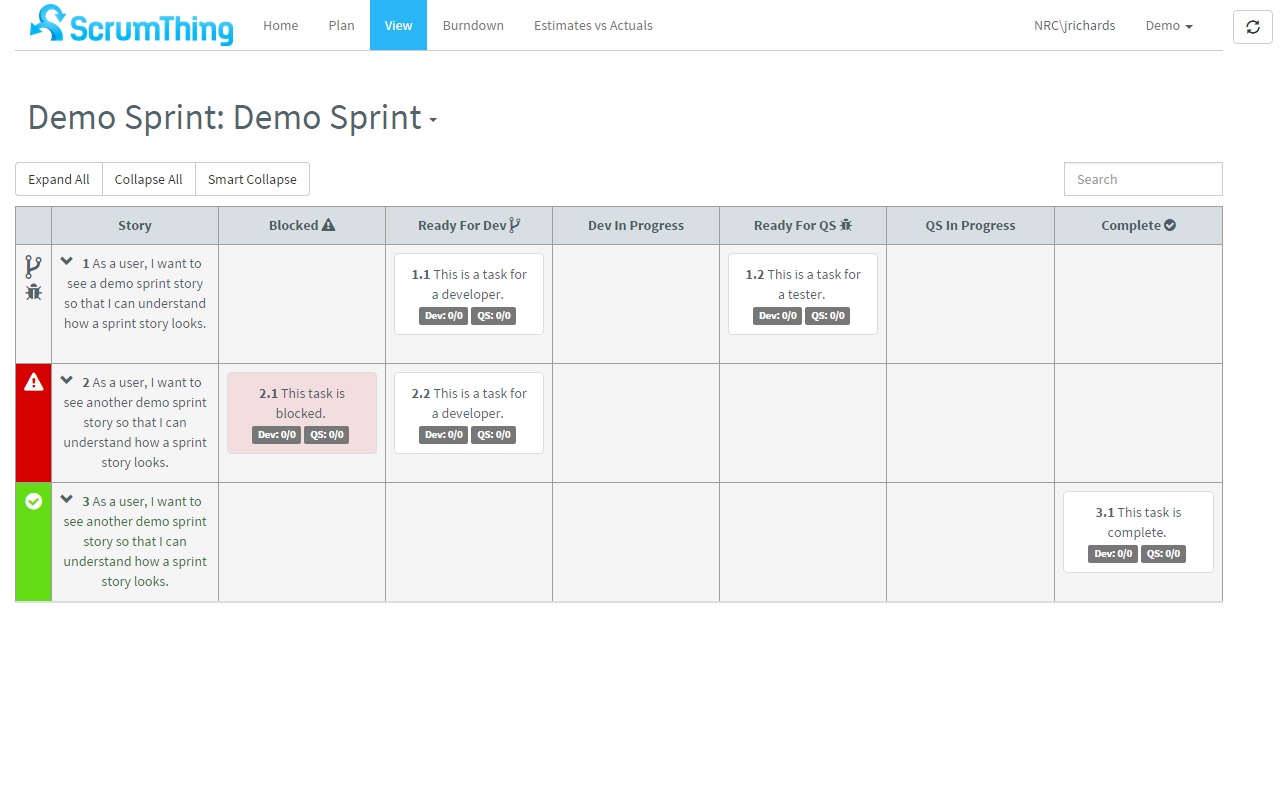
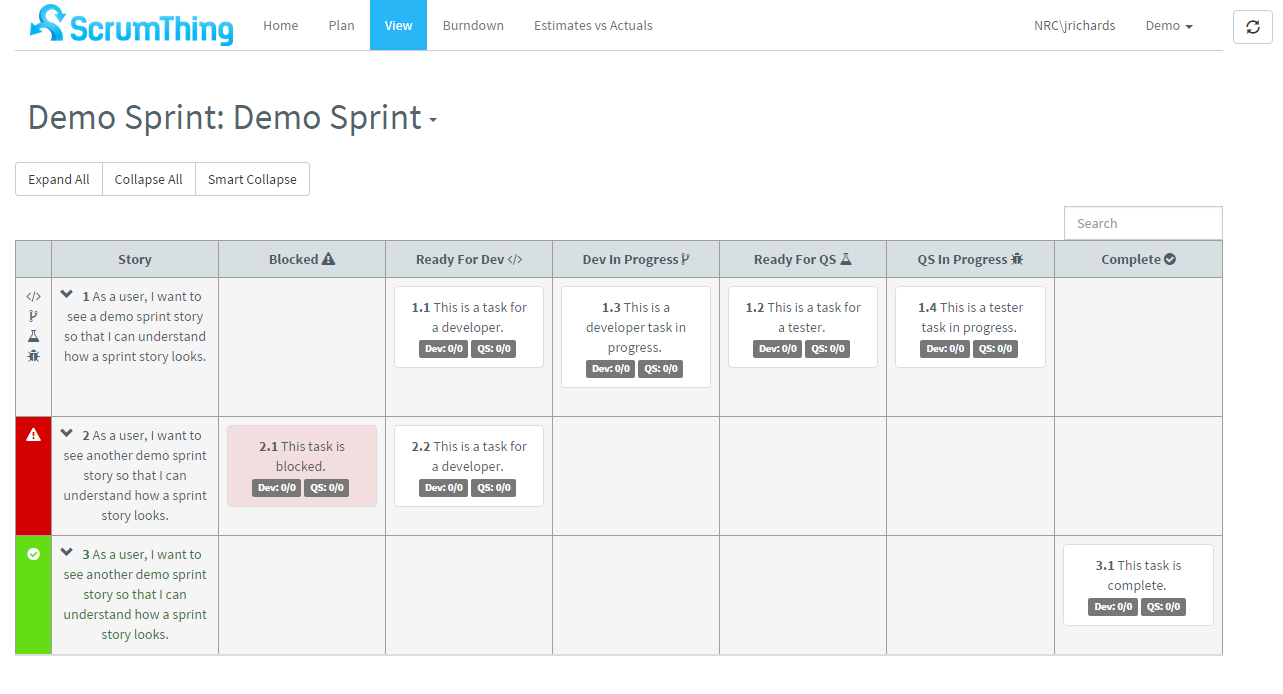
Fix: Update screenshot for ViewSprint.

diff --git a/ScrumThing.Web/ScrumThing.Web/Properties/AssemblyInfo.cs b/ScrumThing.Web/ScrumThing.Web/Properties/AssemblyInfo.cs
@@ -31,4 +31,4 @@ using System.Runtime.InteropServices;
 //
 // You can specify all the values or you can default the Revision and Build Numbers
 // by using the '*' as shown below:
-[assembly: AssemblyVersion("0.16.3.0")]
+[assembly: AssemblyVersion("0.16.4.0")]
